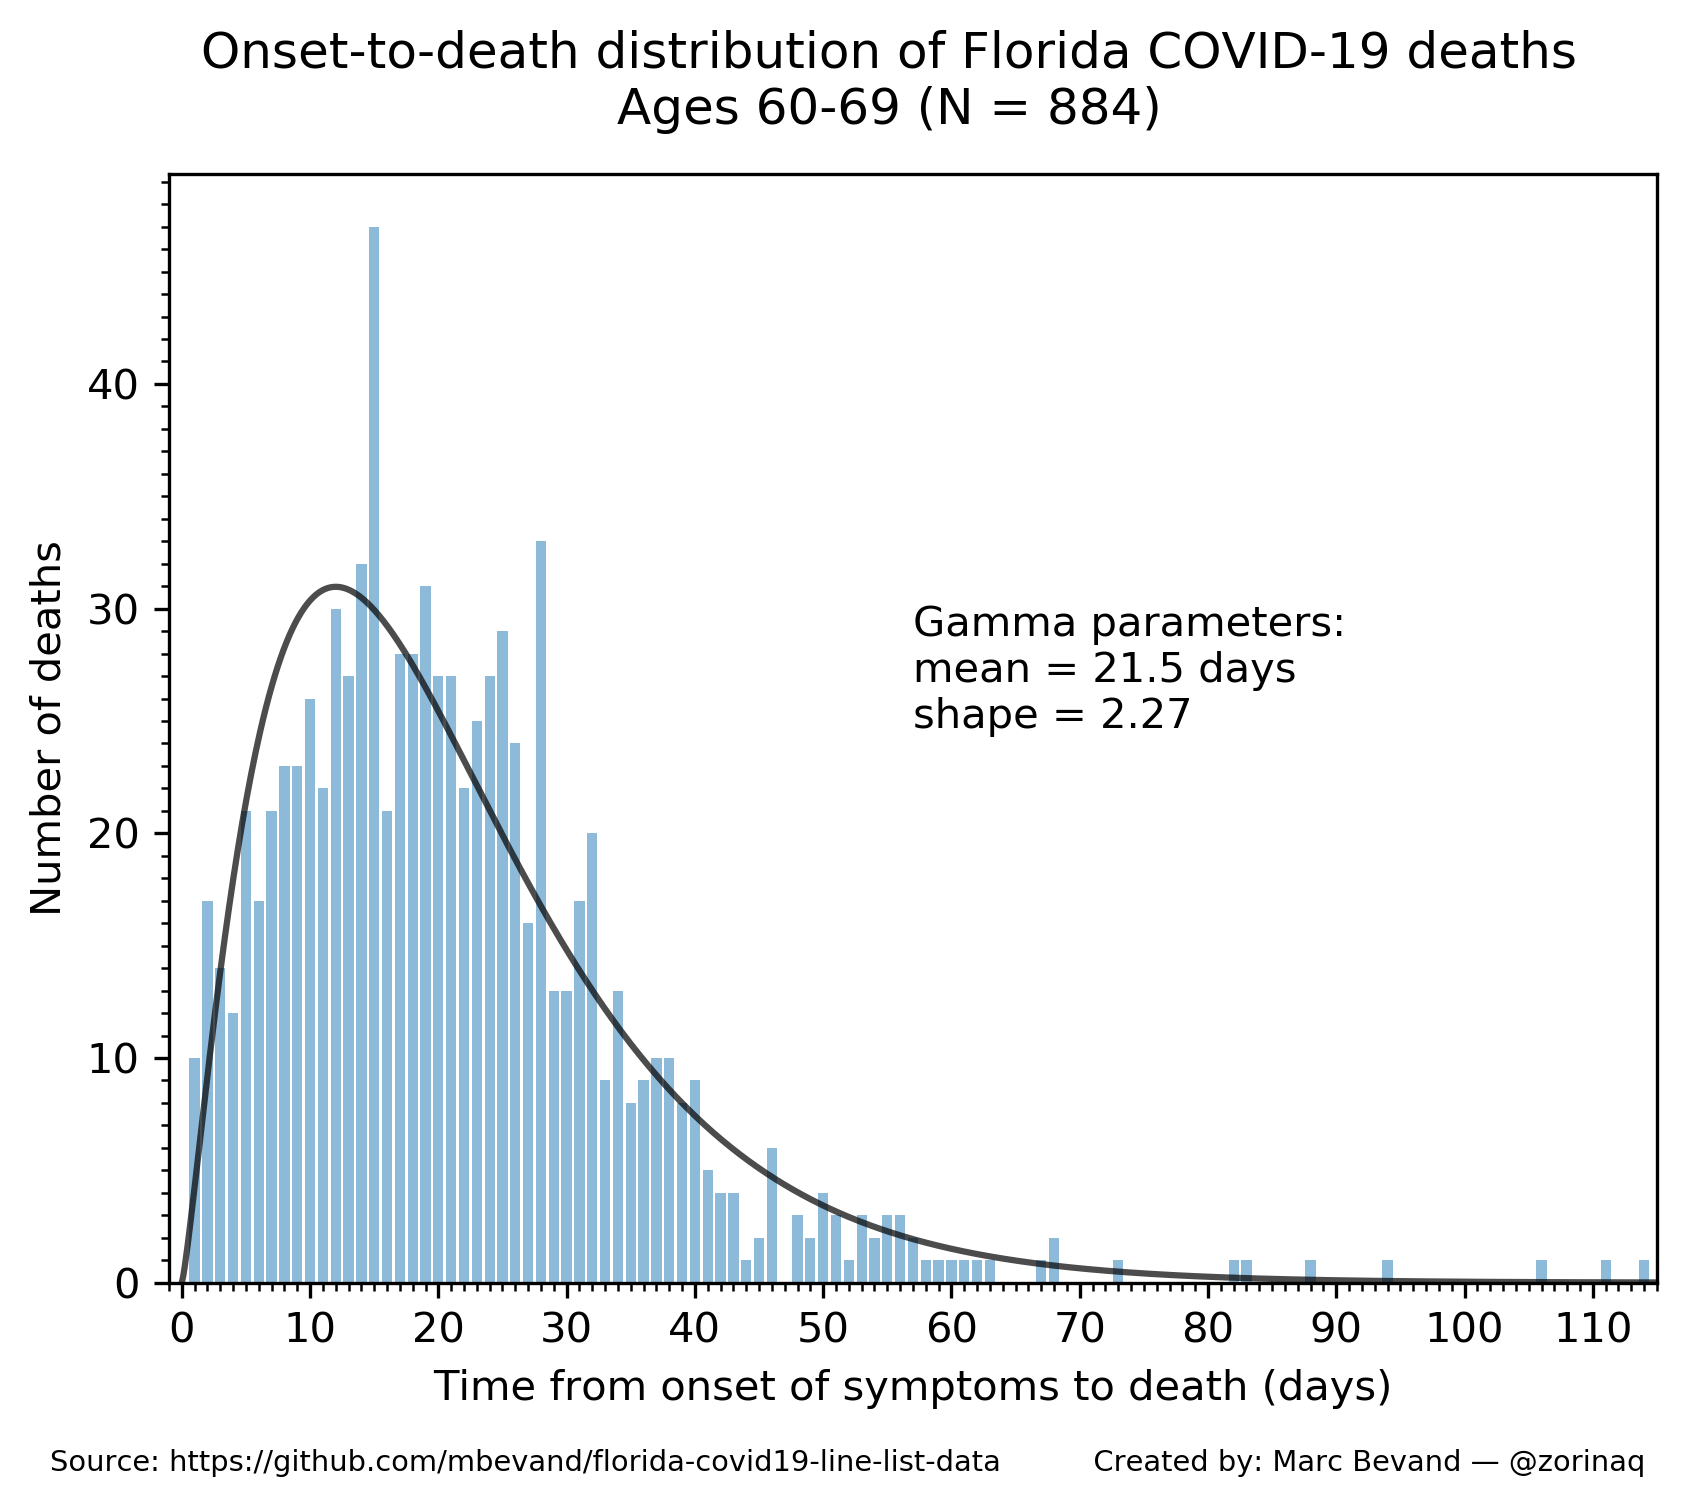
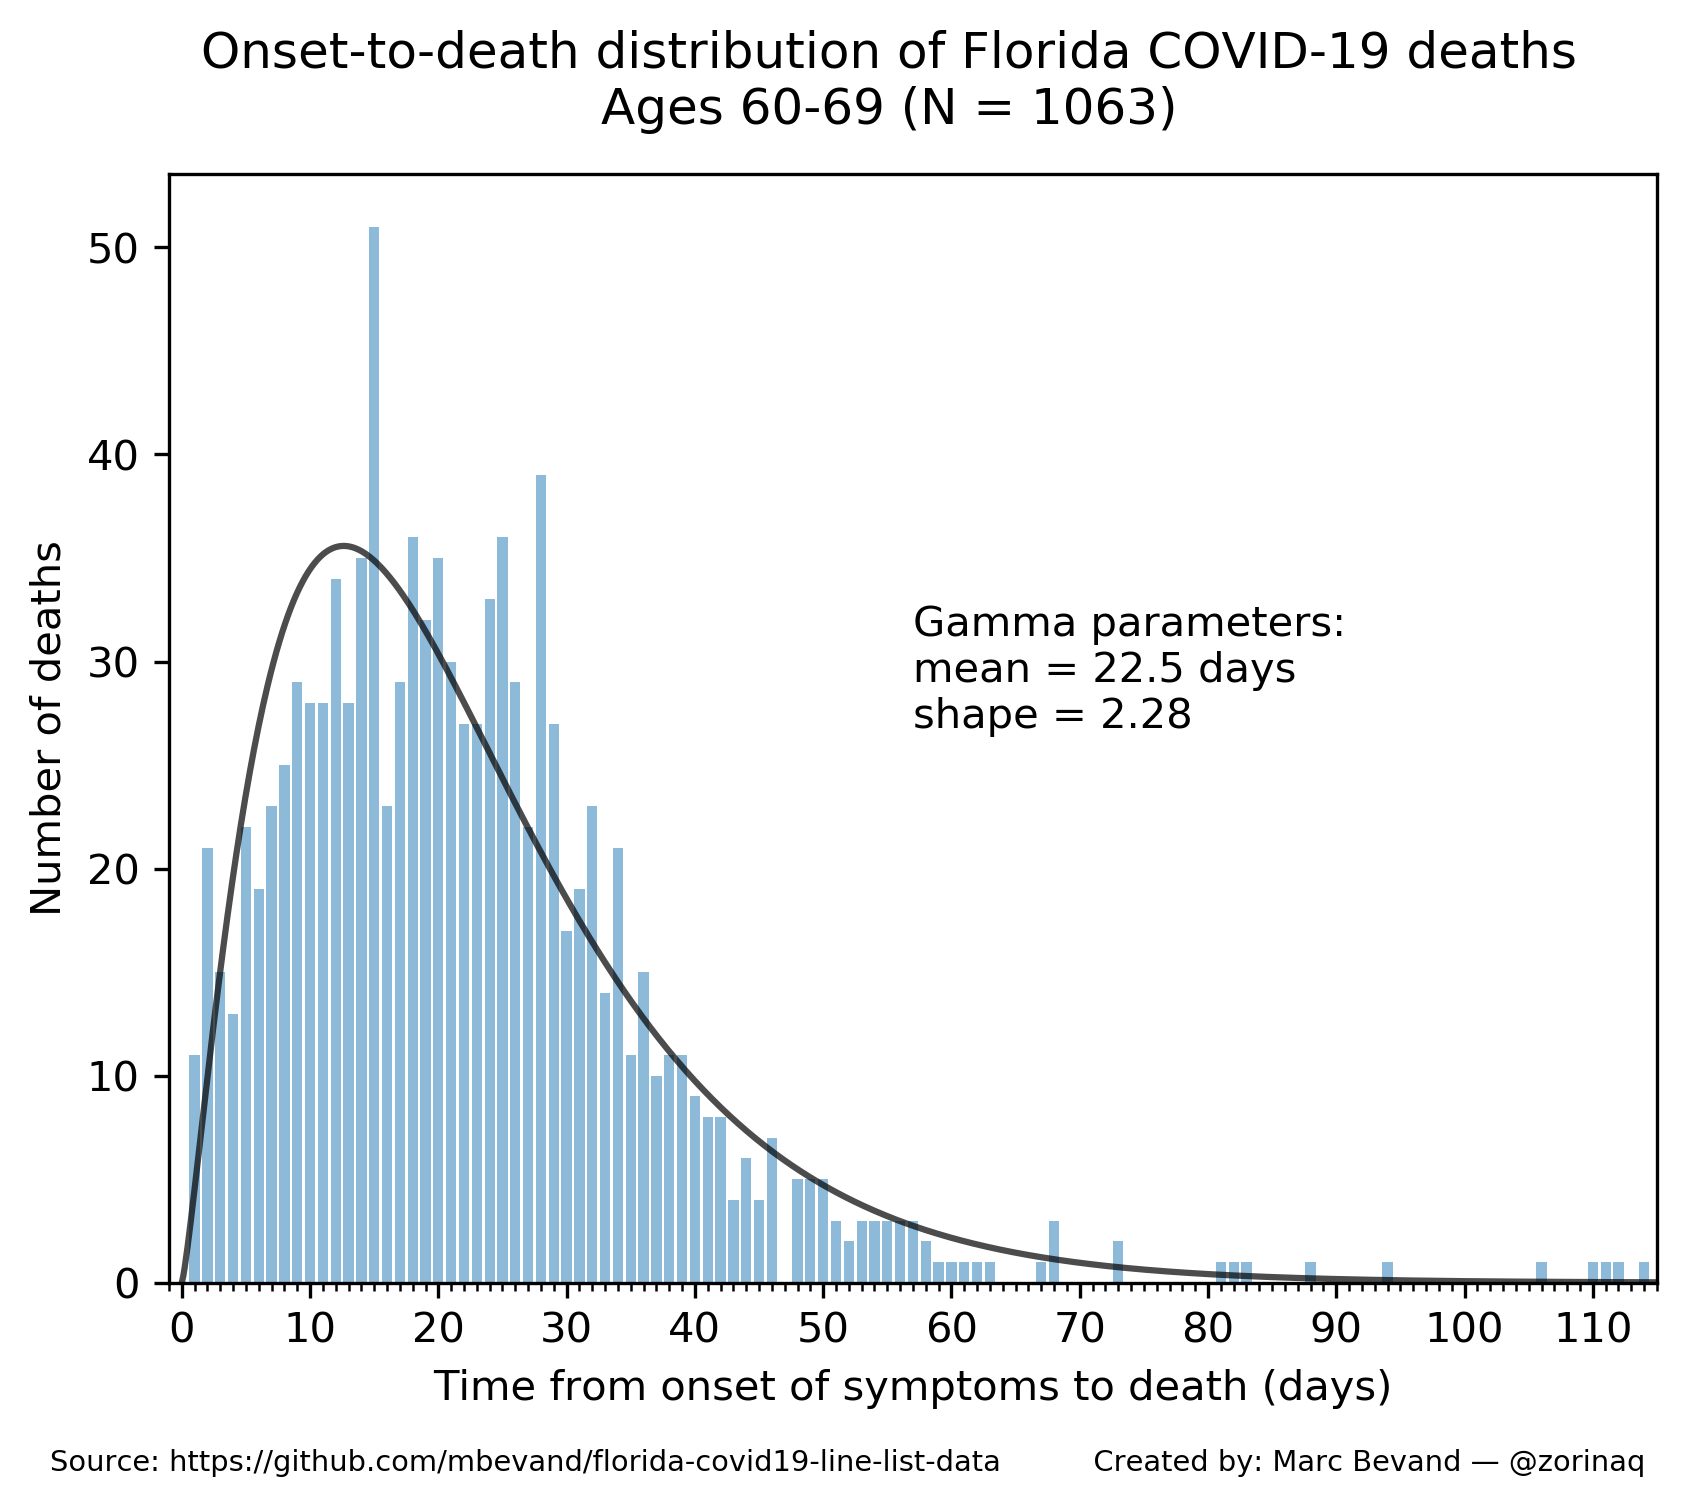
new gamma distribution

diff --git a/age_stratified_cfr.py b/age_stratified_cfr.py
@@ -218,7 +218,7 @@ def main():
         data[date][b].deaths += 1 if died else 0
         data[date][b].cases += 1
     # Parameters of the Gamma distribution of onset-to-death, calculated by gamma.py
-    mean, shape = 20.4, 2.08
+    mean, shape = 21.3, 2.11
     calc_cfr(data, mean, shape)
     #print_stats(data)
     gen_chart(data, mean, shape)

diff --git a/forecast_deaths.py b/forecast_deaths.py
@@ -24,7 +24,7 @@ csv_deaths_occurred = 'data_deaths/deaths_by_date_of_death.csv'
 deaths_occurred_ignore_days = 10
 
 # Mean time (in days) from onset of symptoms to death, calculated by gamma.py
-o2d = 20.4
+o2d = 21.3
 
 # Number of days to calculate the simple moving average of the chart curves
 avg_days = 7

diff --git a/README.md b/README.md
@@ -100,13 +100,13 @@ important that we feed it CFR estimates, not IFR estimates. Infection Fatality
 Ratios take into account *undetected* cases and thus would not be consistent
 with line list data.
 
-Then the script assumes death occurs on average 20.4 days after infection,
+Then the script assumes death occurs on average 21.3 days after infection,
 which is the mean onset-to-death time calculated by `gamma.py`.
 
 Finally, it charts the forecast (`forecast_deaths.png`). The curves are all
 smoothed with a 7-day simple moving average.
 
-The end result is a simple tool that can not only predict deaths up to ~20.4
+The end result is a simple tool that can not only predict deaths up to ~21.3
 days ahead of time, but can also estimate *past* deaths accurately: notice how
 the colored curves in the generated chart follow closely the observed deaths.
 
@@ -243,70 +243,75 @@ Parsing data_fdoh/2020-08-08-07-54-58.csv
 Parsing data_fdoh/2020-08-09-07-39-31.csv
 Parsing data_fdoh/2020-08-10-07-53-43.csv
 Parsing data_fdoh/2020-08-11-08-01-22.csv
+Parsing data_fdoh/2020-08-12-07-52-36.csv
+Parsing data_fdoh/2020-08-13-09-40-37.csv
+Parsing data_fdoh/2020-08-14-13-14-28.csv
+Parsing data_fdoh/2020-08-15-08-01-33.csv
+Parsing data_fdoh/2020-08-16-07-41-33.csv
 
 Ages 0-29:
-Number of deaths: 40
+Number of deaths: 42
 Gamma distribution params:
-mean = 15.2
-shape = 2.02
+mean = 16.2
+shape = 1.96
 
 Ages 30-39:
-Number of deaths: 78
+Number of deaths: 86
 Gamma distribution params:
-mean = 18.8
-shape = 1.53
+mean = 19.6
+shape = 1.57
 
 Ages 40-49:
-Number of deaths: 179
+Number of deaths: 201
 Gamma distribution params:
-mean = 24.2
-shape = 1.99
+mean = 24.3
+shape = 2.14
 
 Ages 50-59:
-Number of deaths: 417
+Number of deaths: 496
 Gamma distribution params:
-mean = 24.4
-shape = 1.98
+mean = 24.9
+shape = 2.03
 
 Ages 60-69:
-Number of deaths: 884
+Number of deaths: 1063
 Gamma distribution params:
-mean = 21.5
-shape = 2.27
+mean = 22.5
+shape = 2.28
 
 Ages 70-79:
-Number of deaths: 1453
+Number of deaths: 1722
 Gamma distribution params:
-mean = 20.8
-shape = 2.17
+mean = 21.6
+shape = 2.26
 
 Ages 80-89:
-Number of deaths: 1653
+Number of deaths: 1937
 Gamma distribution params:
-mean = 19.7
+mean = 20.7
 shape = 2.10
 
 Ages 90+:
-Number of deaths: 916
+Number of deaths: 1063
 Gamma distribution params:
-mean = 17.7
-shape = 2.06
+mean = 18.6
+shape = 2.03
 
 All ages:
-Number of deaths: 5620
+Number of deaths: 6610
 Gamma distribution params:
-mean = 20.4
-shape = 2.08
+mean = 21.3
+shape = 2.11
 ```
 
-The overall (all ages) mean of 20.4 days is comparable to other published estimates, however our
-distribution is wider (ie. smaller shape parameter of 2.08) because many deaths
+The overall (all ages) mean of 21.3 days is comparable to other published estimates, however our
+distribution is wider (ie. smaller shape parameter of 2.11) because many deaths
 occur in the long tail:
 * mean 17.8 days, shape 4.94 = 0.45<sup>-2</sup>, based on sample of 24 deaths: [Estimates of the severity of coronavirus disease 2019: a model-based analysis][verity]
 * mean 15.1 days, shape 5.1, based on sample of 3 deaths: [Estimating case fatality ratio of COVID-19 from observed cases outside China][althaus]
 
 We believe our distribution parameters are more accurate because
-they are based on a much larger sample of 5620 deaths. The long tail
+they are based on a much larger sample of 6610 deaths. The long tail
 may be the result of improved treatments that can maintain patients
 alive for a longer time.
 
